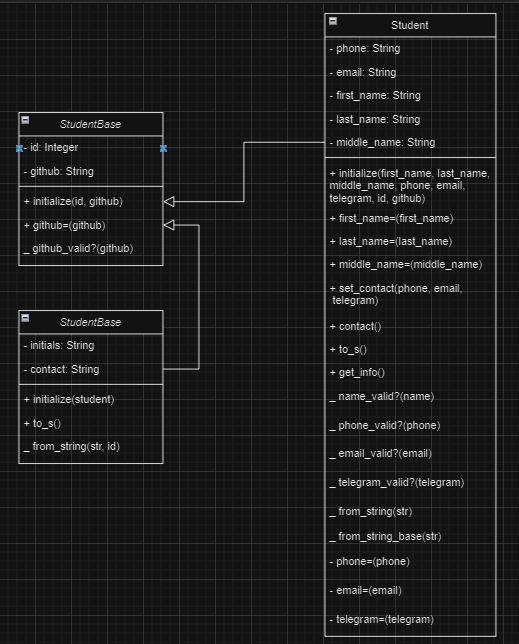
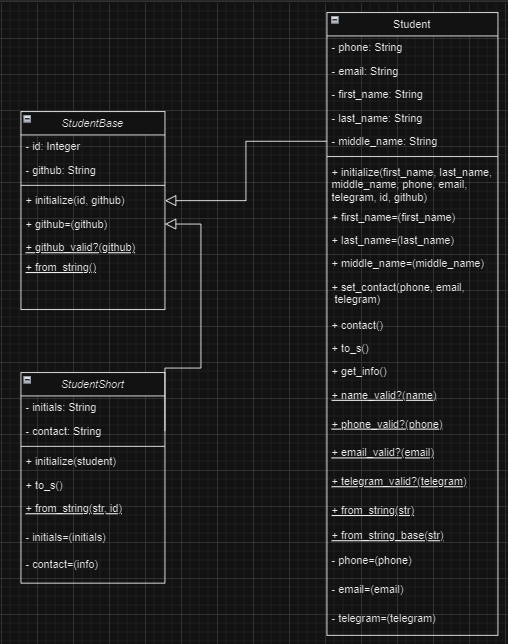
Lab2 - takeawway to super class
-Вынес метод from_string в суперкласс StudentBase, имитировал
его абстрактность в родителе
-Исправил диаграмму
-Возможно что-то еще, но я не помню

diff --git a/class_student/StudentShort.rb b/class_student/StudentShort.rb
@@ -1,8 +1,7 @@
 require_relative 'StudentBase'
 
 class StudentShort < StudentBase
-  attr_accessor :initials
-  attr_reader :contact
+  attr_reader :contact, :initials
   def initialize(student)
     super(id: student.id, github: student.github)
     self.initials = "#{student.last_name} #{student.first_name[0]}.#{student.middle_name[0]}."
@@ -47,6 +46,11 @@ class StudentShort < StudentBase
     )
     StudentShort.new(student)
   end
+  private
+  def initials=(initials)
+    @initials = initials unless initials.nil?
+  end
+
   def contact= (info)
     @contact = info unless info.nil?
   end

diff --git a/class_student/StudentBase.rb b/class_student/StudentBase.rb
@@ -7,6 +7,10 @@ class StudentBase
     self.github = github if github
   end
 
+  def self.from_string()
+    raise NotImplemetedError
+  end
+
   def github=(github)
     raise ArgumentError unless StudentBase.github_valid?(github)
     @github = github
